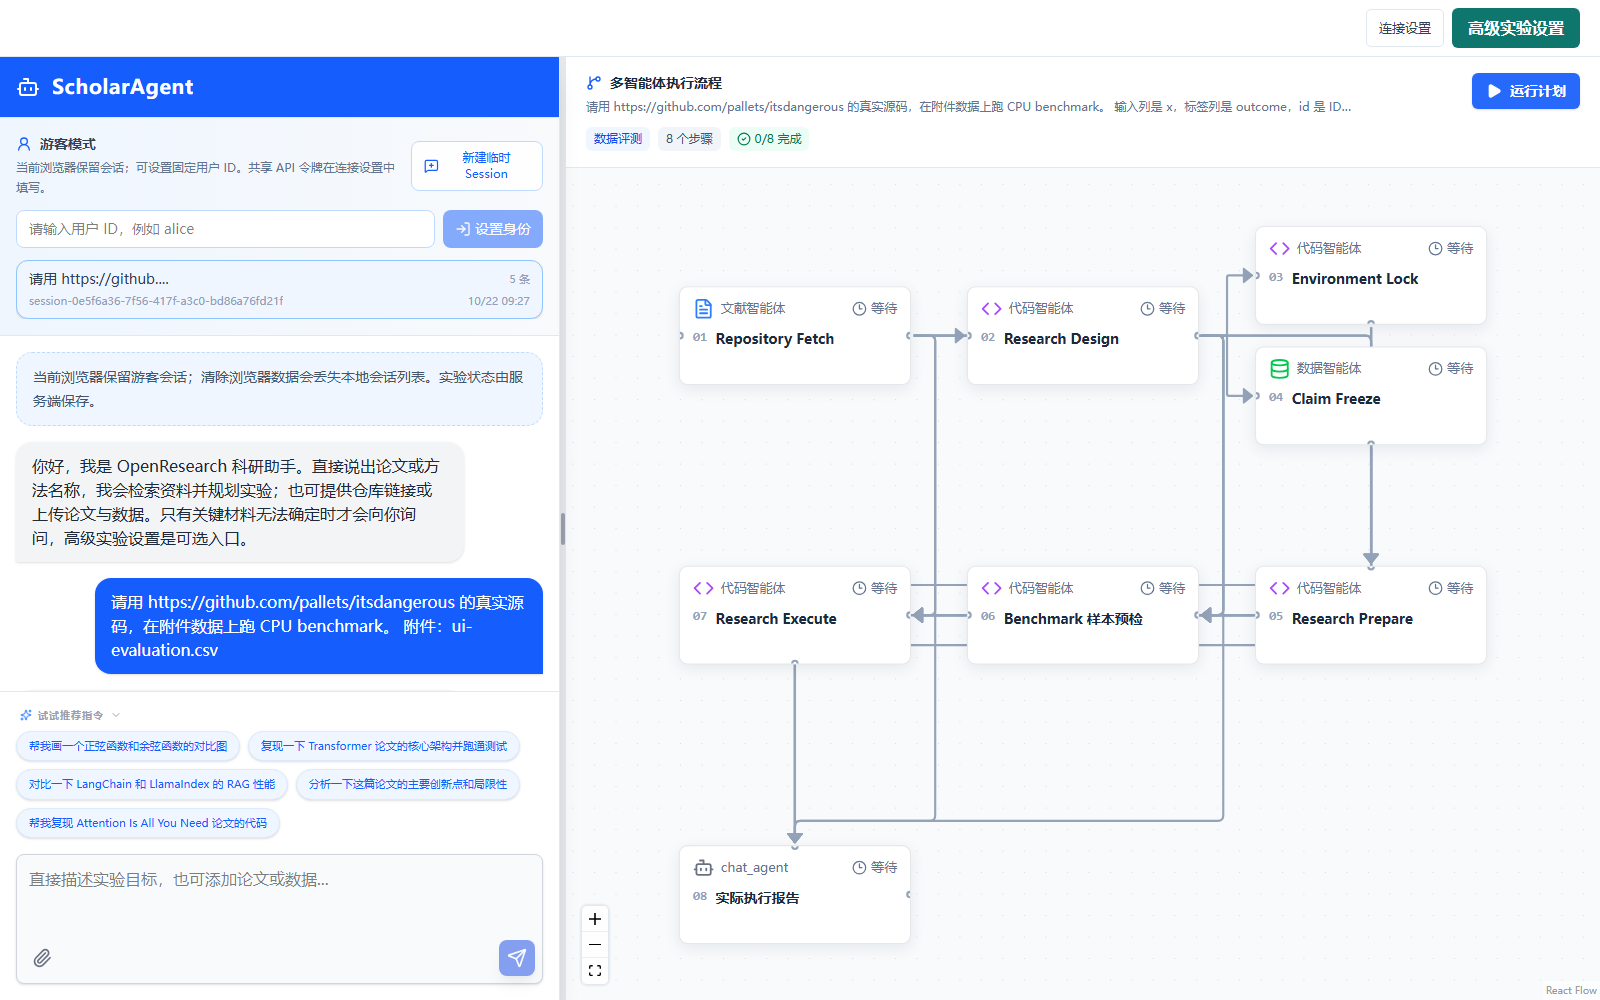
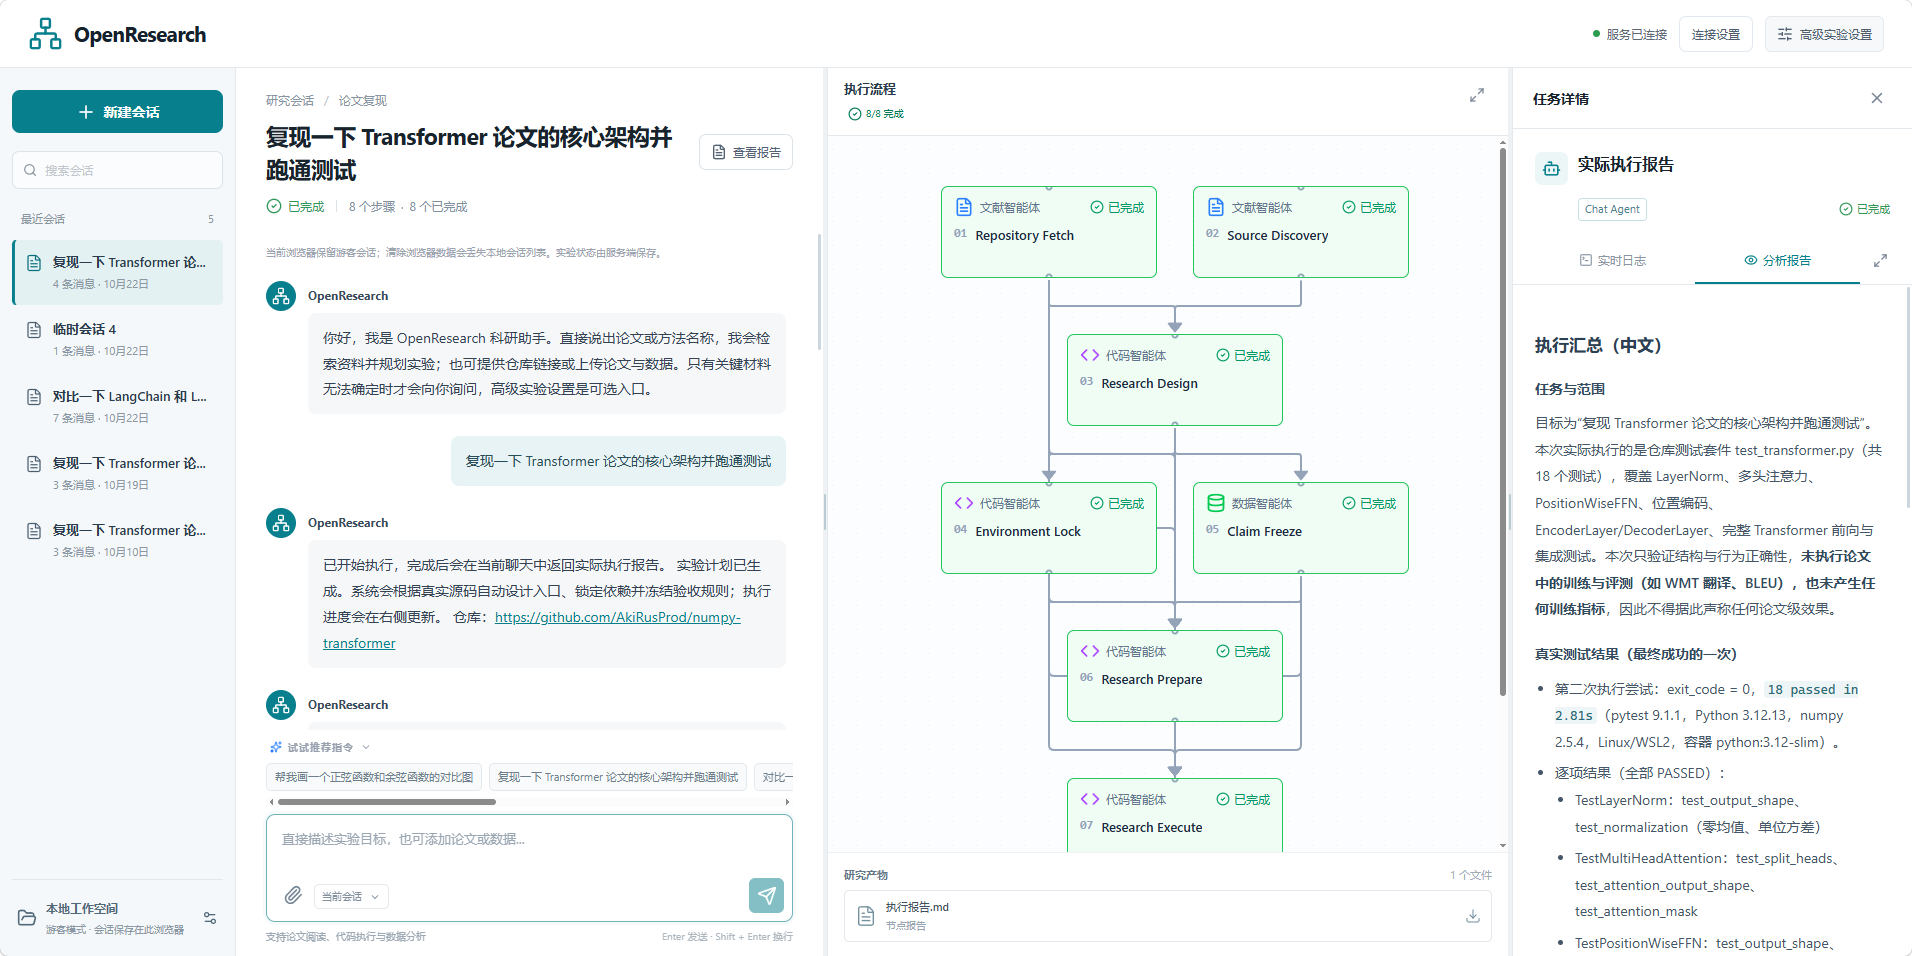
docs: refresh README workbench screenshot

diff --git a/README.md b/README.md
@@ -24,7 +24,7 @@ OpenResearch 是 [AGI-OpenResearch](https://github.com/AGI-Core/AGI-OpenResearch
 
 ![OpenResearch workbench](docs/assets/openresearch-workbench.png)
 
-*Python 工程的网页回归截图，展示材料上传与 DAG 规划；图中的计划尚未执行。*
+*新版科研工作台，展示会话导航、科研对话、执行流程与任务详情；示例为 Transformer 复现任务的执行进度和分析报告。*
 
 ## Why OpenResearch
 
